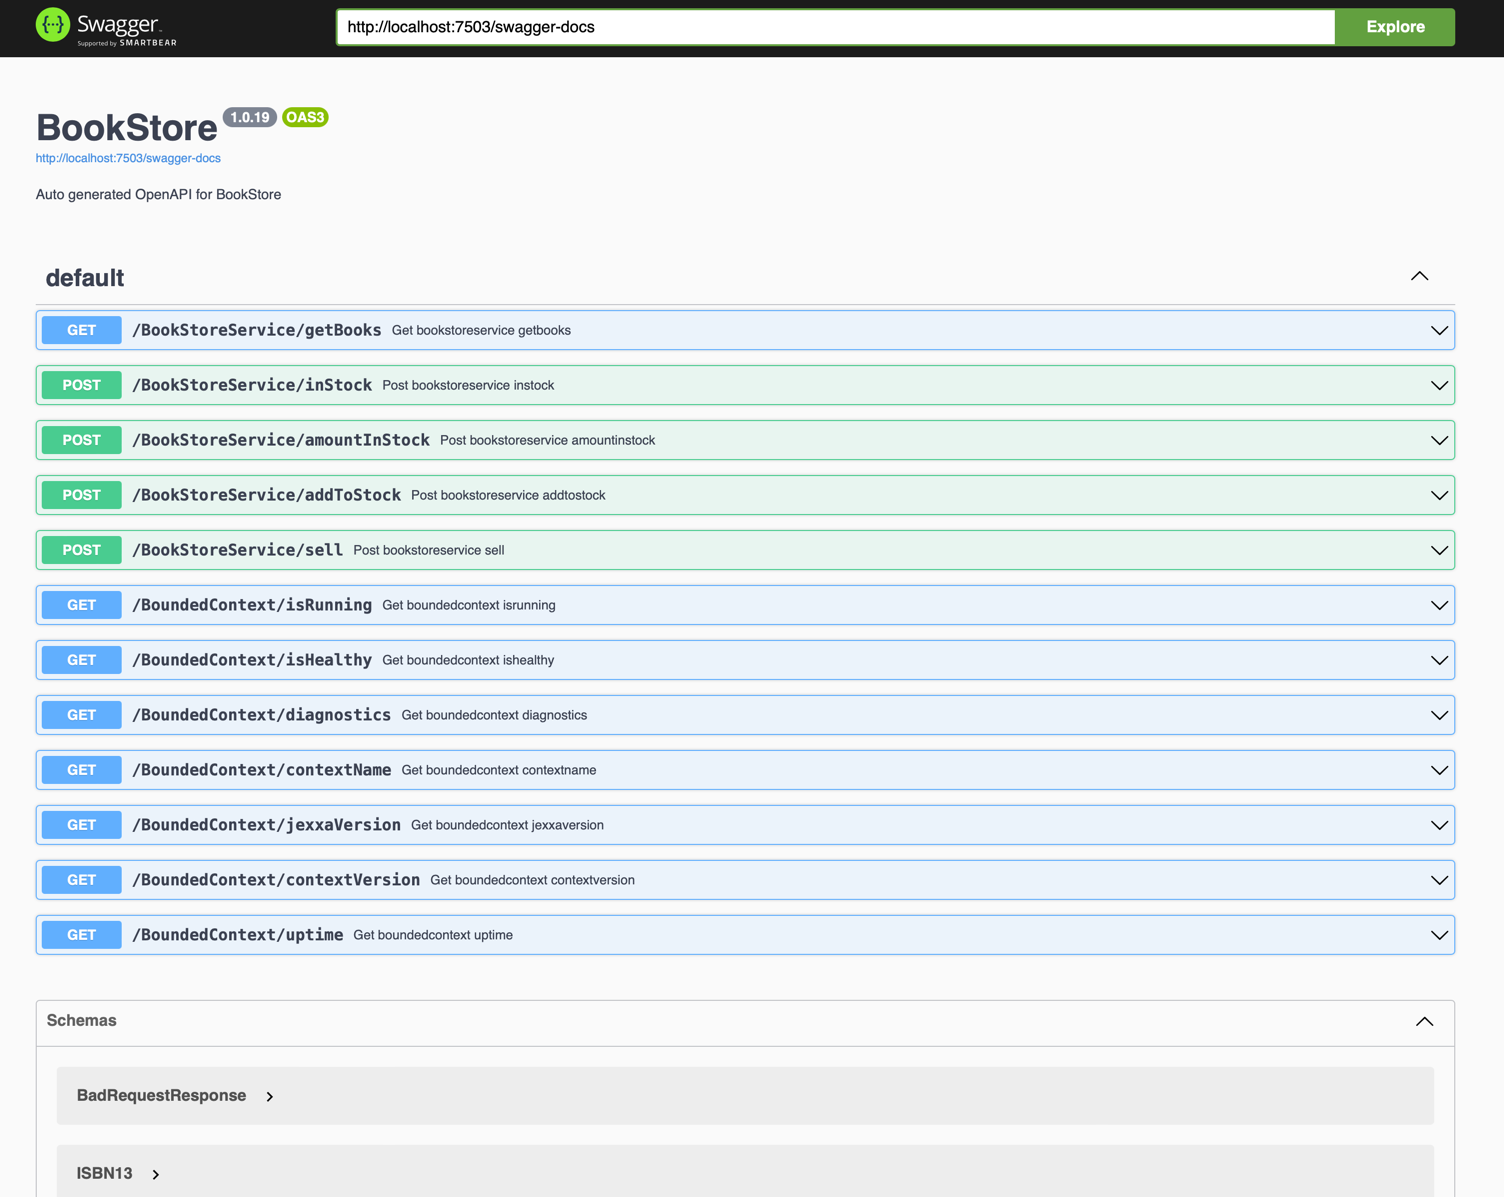
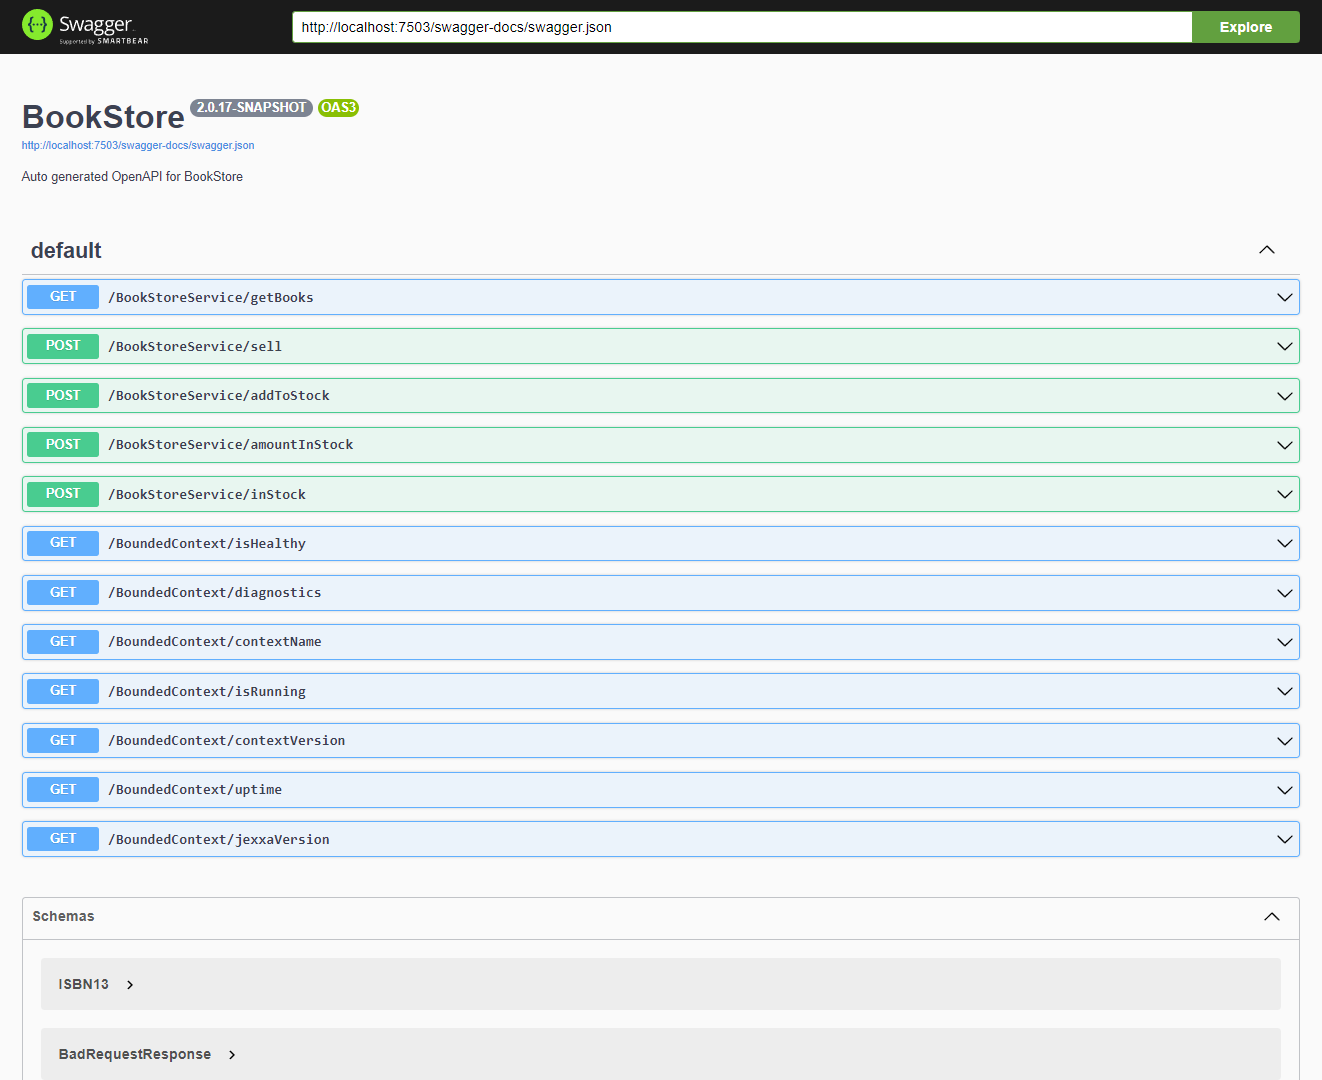
Updated OpenAPI image and logs to show the new Default Path (#170)

diff --git a/BookStore/README-OPENAPI.md b/BookStore/README-OPENAPI.md
@@ -28,7 +28,7 @@ You will see following (or similar) output
 ...
 [main] INFO io.jexxa.utils.JexxaBanner - Access Information: 
 [main] INFO io.jexxa.utils.JexxaBanner - Listening on: http://0.0.0.0:7503
-[main] INFO io.jexxa.utils.JexxaBanner - OpenAPI available at: http://0.0.0.0:7503/swagger-docs
+[main] INFO io.jexxa.utils.JexxaBanner - OpenAPI available at: http://0.0.0.0:7503/swagger-docs/swagger.json
 
 
 ```          
